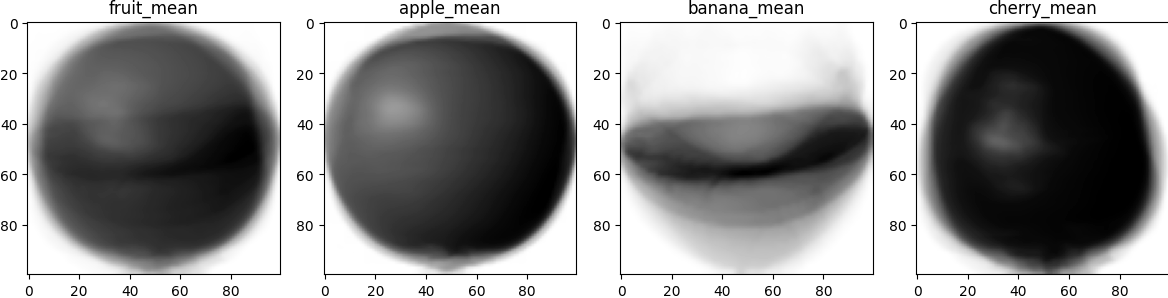
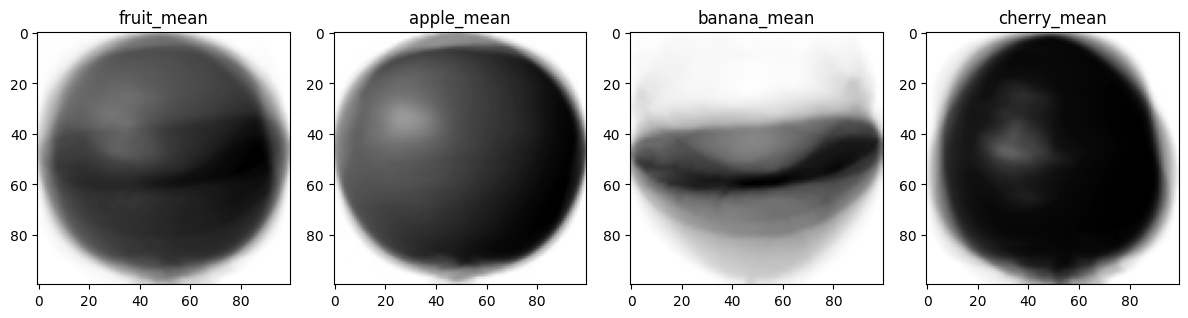
군집 분석

diff --git a/Analysis/2_array mean.py b/Analysis/2_array mean.py
@@ -2,38 +2,25 @@ import numpy as np
 from imgtoarray import load_images, draw_images
 
 # 데이터 로드
-apple = load_images("Training\Apple Braeburn 1")
-banana = load_images("Training\Banana 1")
-cherry = load_images("Training\Cherry 1")
-fruit = np.concatenate((apple, banana, cherry), axis=0)
+apple = load_images("Training\Apple Red 1") # 492장
+banana = load_images("Training\Banana 1") # 490장
+cherry = load_images("Training\Cherry 1") # 492장
+fruit = np.concatenate((apple, banana, cherry), axis=0) # 1474장
 
-# 각 과일 이미지들의 픽셀 평균 계산
+# 이미지들의 각 픽셀 평균 계산
 apple_mean = np.mean(apple, axis=0)
 banana_mean = np.mean(banana, axis=0)
 cherry_mean = np.mean(cherry, axis=0)
 fruit_mean = np.mean(fruit, axis=0)
 
-# 각 과일 이미지들의 픽셀 평균 시각화
+# 픽셀 평균 시각화
 means = np.array([fruit_mean, apple_mean, banana_mean, cherry_mean])
 means_label = ["fruit_mean", "apple_mean", "banana_mean", "cherry_mean"]
-draw_images(means, ratio=3, titles=means_label, axis="on", show="off", save=r"Images\2_means")
+# draw_images(means, ratio=3, titles=means_label, axis="on", save=r"Images\2_means")
 
-# 픽셀 평균을 기준으로, 가까운 값부터 골라내기
-
-# 사과
-standard = means[1]
-differences =np.round(np.mean(np.abs(fruit - standard), axis=(1,2)), 2)
-indexes = np.argsort(differences)
-draw_images(fruit[indexes], ncols=50, titles=np.sort(differences), show="off", save=r"Images\2_apples sorted by means")
-
-# 바나나
+# 바나나 픽셀 평균을 기준으로, 가까운 값부터 골라내기
 standard = means[2]
-differences =np.round(np.mean(np.abs(fruit - standard), axis=(1,2)), 2)
+differences =np.round(np.mean(np.abs(fruit - standard), axis=(1,2)), 3)
 indexes = np.argsort(differences)
-draw_images(fruit[indexes], ncols=50, titles=np.sort(differences), show="off", save=r"Images\2_bananas sorted by means")
-
-# 체리
-standard = means[3]
-differences =np.round(np.mean(np.abs(fruit - standard), axis=(1,2)), 2)
-indexes = np.argsort(differences)
-draw_images(fruit[indexes], ncols=50, titles=np.sort(differences), show="off", save=r"Images\2_cherries sorted by means")
+fruit_sorted = fruit[indexes]
+draw_images(fruit_sorted[0:500], ncols=20, titles=np.sort(differences), save=r"Images\2_bananas sorted by means 1")

diff --git a/Analysis/imgtoarray.py b/Analysis/imgtoarray.py
@@ -23,8 +23,9 @@ def load_images(image_folder):
     
     return image_data
 
-def draw_images(arr_3d, ncols=None, ratio=1, titles=None, axis="off", cmap="gray_r", show="on", save="off"):
+def draw_images(arr_3d, ncols=None, ratio=1, titles=None, axis="off", cmap="gray_r", show="off", save="off"):
     
+    # 한꺼번에 출력될 이미지들의 배치 방법과 크기 결정
     nimages = arr_3d.shape[0]
     ncols = nimages if ncols is None else ncols
     nrows = int(np.ceil(nimages / ncols))
@@ -37,7 +38,8 @@ def draw_images(arr_3d, ncols=None, ratio=1, titles=None, axis="off", cmap="gray
         axs = axs.flatten()
     else:
         axs = axs.flatten()
-
+		
+	# 개별 이미지의 타이틀, 좌표축 설정 기능
     for index in range(nrows * ncols):
         if index < nimages:
             axs[index].imshow(arr_3d[index], cmap=cmap)
@@ -50,15 +52,16 @@ def draw_images(arr_3d, ncols=None, ratio=1, titles=None, axis="off", cmap="gray
         else:
             axs[index].axis("off")
     
+    # 이미지 사이의 여백을 없애고 타이트하게 만들기
     plt.tight_layout()
     
-    # 이미지 보기 여부 옵션 추가
+    # 코드 실행 후 이미지 보기 여부 옵션
     if show == "on":
         plt.show()
     elif show == "off":
         pass
     
-    # 이미지 저장 기능 추가
+    # 이미지 저장 기능
     if save != "off":
-        plt.savefig(save, bbox_inches="tight", pad_inches=0)
-        print(f"이미지가 {save}.png 파일로 저장되었습니다.")
+        plt.savefig(save, bbox_inches="tight")
+        print(f"{arr_3d.shape[0]}개의 이미지가 {save}.png 파일로 저장되었습니다.")

diff --git a/Analysis/3_cluster.py b/Analysis/3_cluster.py
@@ -1,0 +1,36 @@
+import numpy as np
+from imgtoarray import load_images, draw_images
+from sklearn.cluster import KMeans
+
+# 데이터 로드
+apple = load_images("Training\Apple Red 1") # 492장
+banana = load_images("Training\Banana 1") # 490장
+cherry = load_images("Training\Cherry 1") # 492장
+fruit = np.concatenate((apple, banana, cherry), axis=0) # 1474장
+
+# k평균 군집 알고리즘 모델 생성, 훈련
+km = KMeans(n_clusters=3, random_state=42) # 모델 객체 생성
+km.fit(fruit.reshape(-1, 100*100)) # 모델 객체 훈련
+# 훈련 데이터를 2차원 배열로 전달하기 위한 reshape 사용
+
+# 훈련 결과
+result = km.labels_
+n_iter = km.n_iter_
+print(result)
+print(n_iter)
+
+# 군집 중심과 실제 평균을 시각화 하여 비교
+centroids = km.cluster_centers_.reshape(3, 100, 100) # 시각화를 위해 다시 100*100 정사각형 형태로 되돌린다.
+means = np.array([np.mean(fruit, axis=0) for fruit in [apple, banana, cherry]])
+centroids_and_means = np.concatenate((centroids, means), axis=0)
+draw_images(centroids_and_means, 
+            ncols=3,
+            ratio=3, 
+            titles=["cent_0", "cent_1", "cent_2", "mean_apple", "mean_banana", "mean_cherry"], 
+            axis="on", 
+            save=r"Images\3_centroids and means")
+
+# 클러스터의 의미 시각화
+draw_images(fruit[km.labels_ == 0], ncols=50, save=r"Images\3_fruit with cent_0")
+draw_images(fruit[km.labels_ == 1], ncols=50, save=r"Images\3_fruit with cent_1")
+draw_images(fruit[km.labels_ == 2], ncols=50, save=r"Images\3_fruit with cent_2")

diff --git a/Analysis/1_pixel mean.py b/Analysis/1_pixel mean.py
@@ -4,9 +4,9 @@ import matplotlib.pyplot as plt
 from imgtoarray import load_images, draw_images
 
 # 데이터 로드
-apple = load_images("Training\Apple Braeburn 1")
-banana = load_images("Training\Banana 1")
-cherry = load_images("Training\Cherry 1")
+apple = load_images("Training\Apple Red 1") # 492장
+banana = load_images("Training\Banana 1") # 490장
+cherry = load_images("Training\Cherry 1") # 492장
 
 # 각 과일 이미지들의 픽셀 평균 계산
 apple_means = np.mean(apple, axis=(1, 2))
@@ -44,4 +44,4 @@ fruit = np.concatenate((apple, banana, cherry), axis=0)
 mean = np.mean(fruit, axis=(1, 2))
 inf, sup = df["banana_means"].min(), df["banana_means"].max()
 banana1 = fruit[(mean >= inf) & (mean <= sup)]
-draw_images(banana1, ncols=50, show="off", save=r"Images\1_banana1")
+draw_images(banana1, ncols=50, save=r"Images\1_banana1")

diff --git a/Analysis/0_module test.py b/Analysis/0_module test.py
@@ -1,8 +1,11 @@
-from Analysis.imgtoarray import load_images, draw_images
+from imgtoarray import load_images, draw_images
+import numpy as np
 
-bananas = load_images("Training\Banana 1")
-apples = load_images("Training\Apple Red 1")
+apple = load_images("Training\Apple Red 1") # 492장
+banana = load_images("Training\Banana 1") # 490장
+cherry = load_images("Training\Cherry 1") # 492장
+for fruit in apple, banana, cherry:
+    print(fruit.shape[0])
 
-print(bananas.shape)
-
-draw_images(bananas[0:8], ncols=4, ratio=3, titles=[n for n in range(8)], axis="on", cmap="gray")
+sample_fruit = np.concatenate((apple[0:1], banana[0:1], cherry[0:1]), axis=0)
+draw_images(sample_fruit, ratio=3, titles=["apple", "banana", "cherry"], axis="on", save=r"Images\0_sample")
